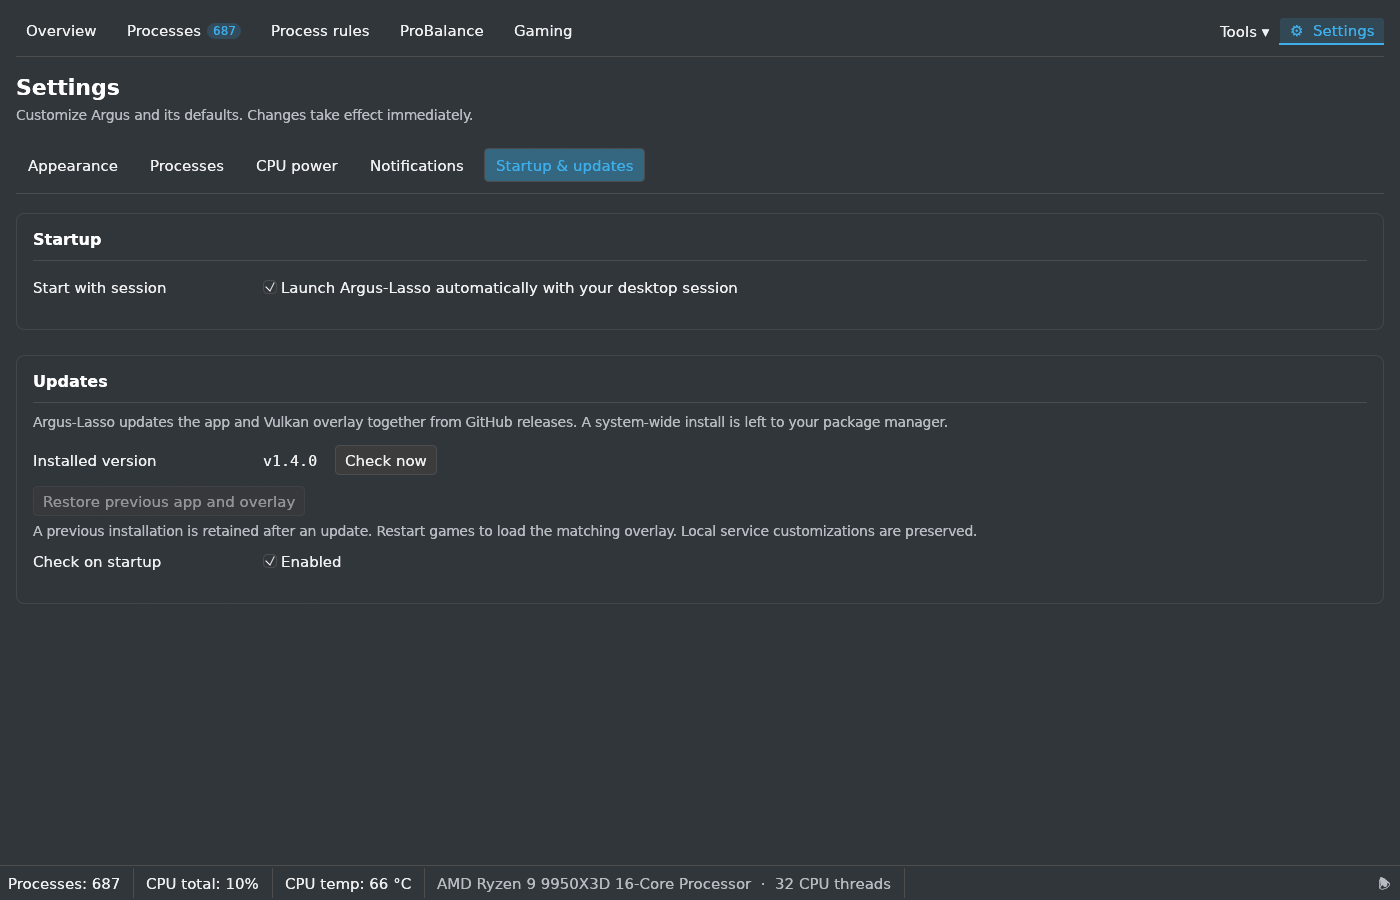
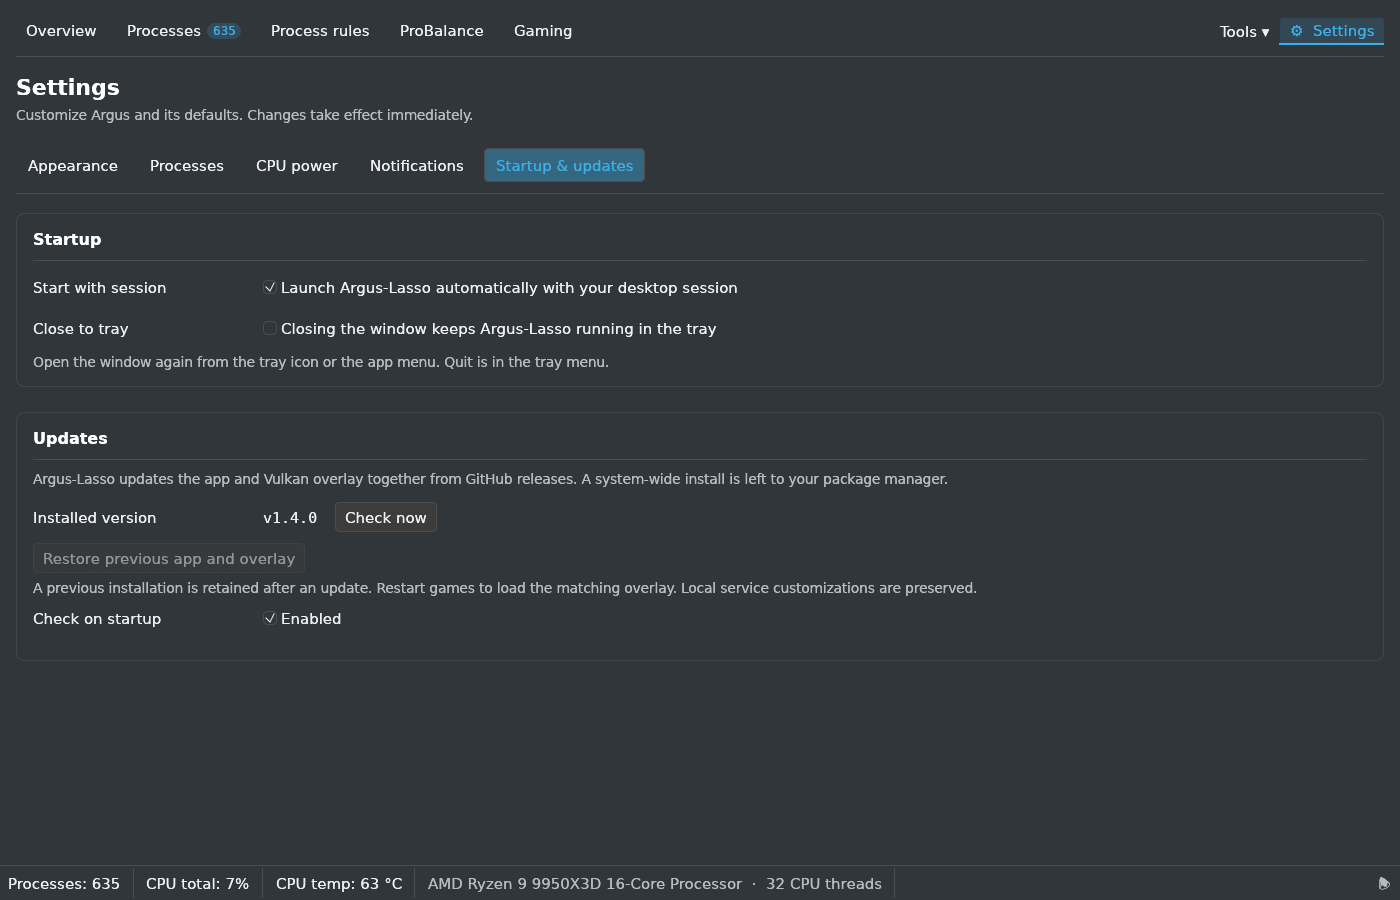
Retake the Startup & updates screenshots with Close to tray
The page has a new row. Both themes were retaken with the tour on an
idle machine and compressed losslessly. The gallery notes the date,
since the rest of the set is from 2026-09-30.

diff --git a/docs/screenshots.md b/docs/screenshots.md
@@ -69,6 +69,8 @@ context menu, expanded sensor group or process-action confirmation.
 
 ## Settings — Startup & updates
 
+Retaken on 2026-10-02, with **Close to tray**.
+
 <picture><source media="(prefers-color-scheme: dark)" srcset="../assets/screenshots/2026-09-30/dark/settingsstartup.png"><img alt="Settings — Startup &amp; updates" src="../assets/screenshots/2026-09-30/light/settingsstartup.png"></picture>
 
 ## Tools — Hardware sensors
